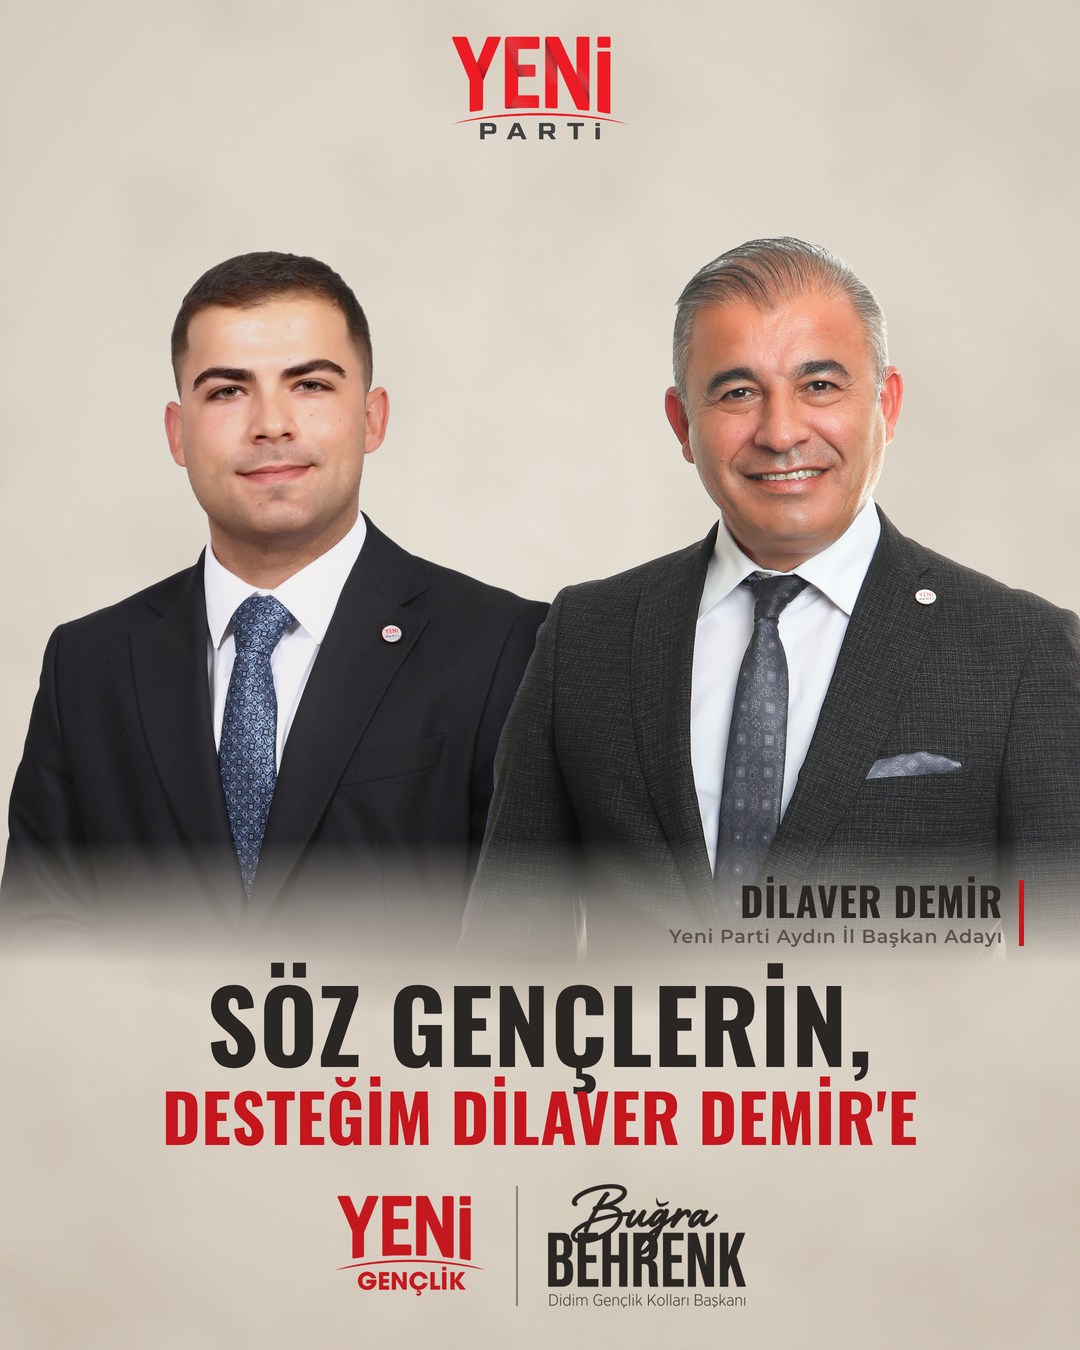
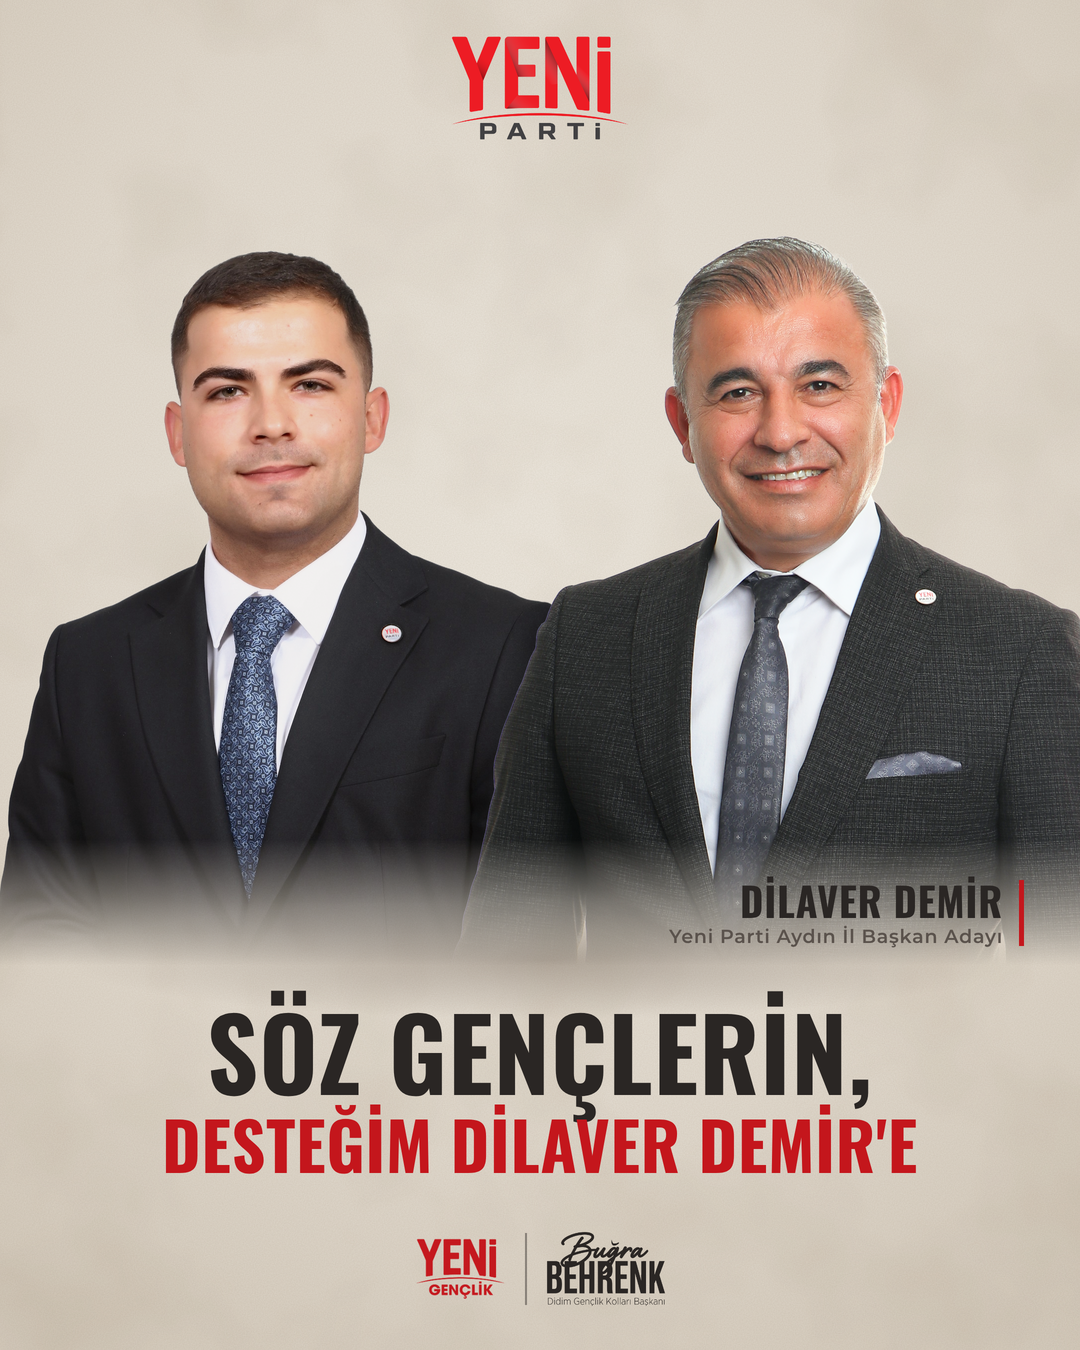
Destek afişi: imza bloğu küçültüldü
Claude-Session: https://claude.ai/code/session_01SatttGbgBLoCnk9KGLypWv

Changed region(s): [[0.1528, 0.7156, 0.8556, 0.9644]]

diff --git a/tasarim/kisisel/destek/destek.html b/tasarim/kisisel/destek/destek.html
@@ -14,13 +14,13 @@ body{position:relative;background:radial-gradient(ellipse 80% 70% at 50% 40%,#EE
 .etiket{position:absolute;right:56px;top:880px;padding-right:16px;border-right:5px solid var(--kirmizi);color:var(--murekkep);text-align:right}
 .etiket b{display:block;font:40px/1 O7;letter-spacing:.02em}
 .etiket span{display:block;margin-top:7px;font:19px/1 M6;letter-spacing:.04em;color:#5A524C}
-.slogan{position:absolute;left:0;right:0;top:972px;text-align:center}
+.slogan{position:absolute;left:0;right:0;top:1000px;text-align:center}
 .s-1{font:100px/1 O7;letter-spacing:.01em;color:var(--murekkep)}
 .s-2{margin-top:10px;font:66px/1 O7;letter-spacing:.01em;color:var(--kirmizi)}
-.imza{position:absolute;left:0;right:0;bottom:42px;display:flex;justify-content:center;align-items:center;gap:30px}
-.imza .gl{height:104px}
-.imza .ayrac{width:2px;height:120px;background:rgba(42,38,36,.45)}
-.imza .isim{height:124px}
+.imza{position:absolute;left:0;right:0;bottom:44px;display:flex;justify-content:center;align-items:center;gap:20px}
+.imza .gl{height:62px}
+.imza .ayrac{width:2px;height:72px;background:rgba(42,38,36,.45)}
+.imza .isim{height:74px}
 </style>
 <body>
 <svg class="doku" width="1080" height="1350"><filter id="n"><feTurbulence type="fractalNoise" baseFrequency=".9" numOctaves="3" seed="4"/><feColorMatrix type="matrix" values="0 0 0 0 .55  0 0 0 0 .48  0 0 0 0 .40  0 0 0 .55 0"/></filter><rect width="1080" height="1350" filter="url(#n)"/></svg>
